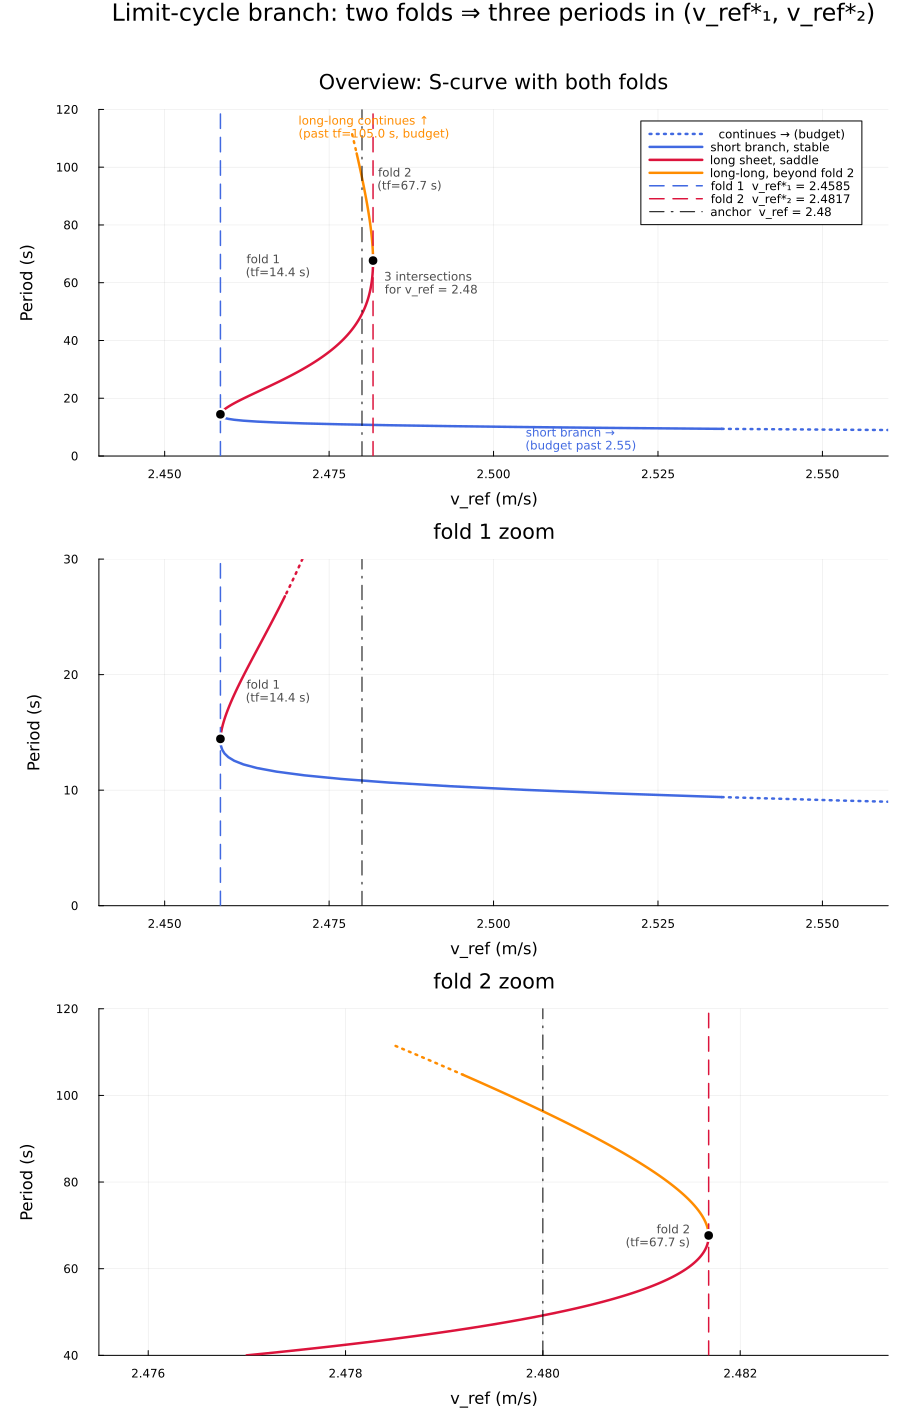
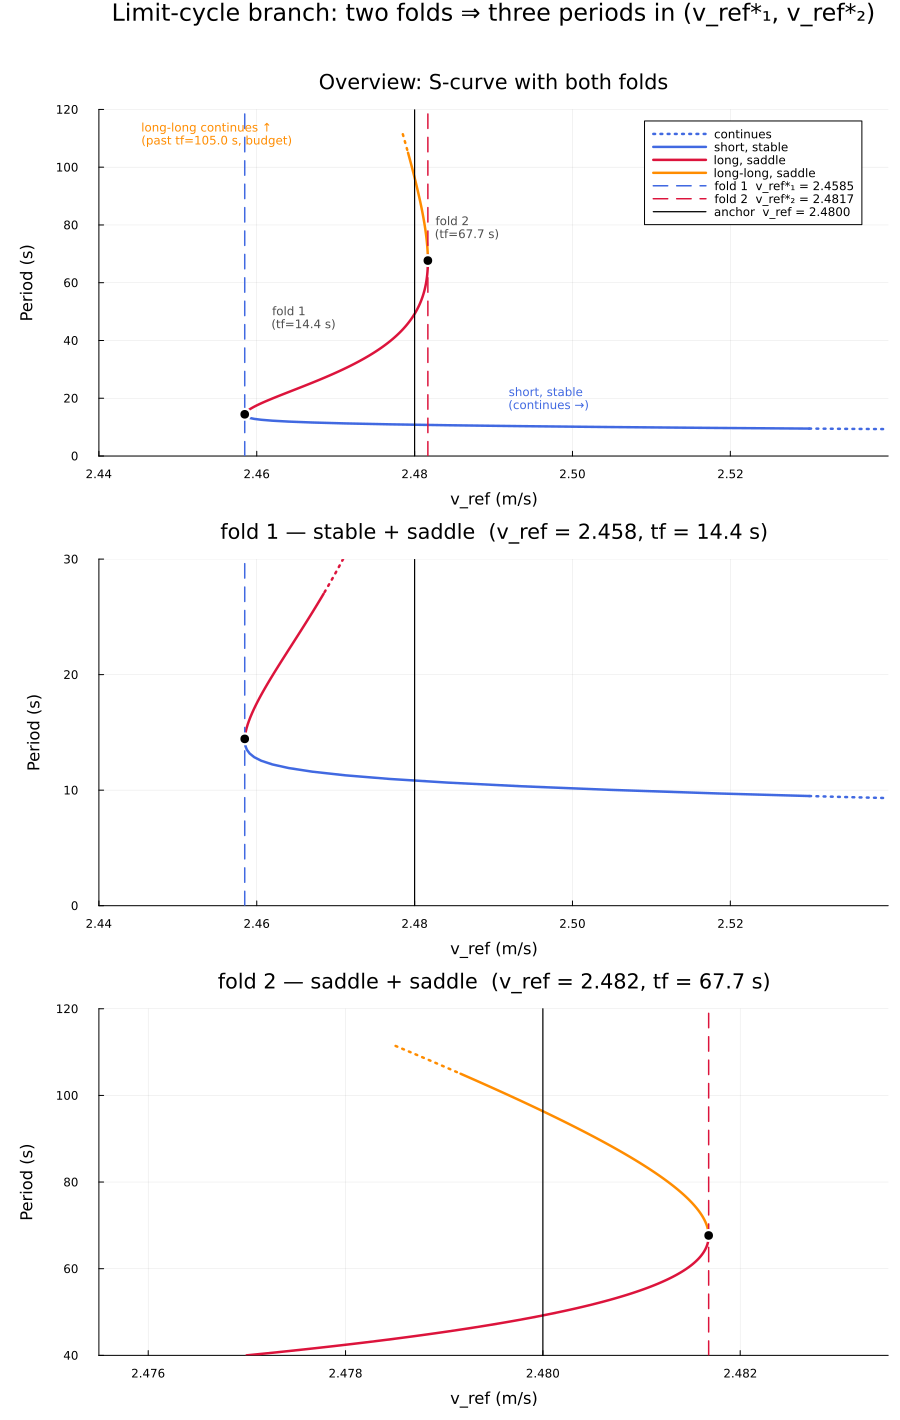
sprint2026: exact dot boundaries by interpolation, consistent branch terminology, fold titles

diff --git a/applications/sprint2026/REPORT.md b/applications/sprint2026/REPORT.md
@@ -58,12 +58,12 @@ optimized cycle continues as the family below (`tf` = physical period):
 
 ![Branch topology](fig_branch.png)
 
-* **Main sheet** (top panel): `tf` falls monotonically from 0.628 s at 9 m/s to
+* **Main branch** (top panel): `tf` falls monotonically from 0.628 s at 9 m/s to
   ≈ 0.12 s at 20 m/s. Collocation, multiple shooting and the bothside runs all
   coincide on it.
 * **Fold tangle at v_ref ≈ 9.2–9.8 m/s** (shaded): several periodic-orbit
-  sheets crowd together (detected folds at 9.24, 9.30, 9.46, 9.54, 9.84 m/s).
-  Near it, Newton's corrector can land on a different sheet than the predictor —
+  branches crowd together (detected folds at 9.24, 9.30, 9.46, 9.54, 9.84 m/s).
+  Near it, Newton's corrector can land on a different branch than the predictor —
   the red ✕ markers flag recorded steps with |Δp| > 1.5·dsmax, impossible for a
   true PALC step and therefore the signature of a sheet-jump.
 * **Low-wind fold** (bottom): the period grows steeply as the wind decreases
@@ -73,9 +73,9 @@ optimized cycle continues as the family below (`tf` = physical period):
 
 ## 3. Collocation and multiple shooting agree
 
-Both discretizations trace the same sheets. On sheet-matched, smooth segments
-the relative period difference is **≤ 3.0e-5 on the main sheet** and **≤ 8.6e-4
-on the low-wind sheet** (where tf is large and sensitive).
+Both discretizations trace the same branches. On branch-matched, smooth segments
+the relative period difference is **≤ 3.0e-5 on the main branch** and **≤ 8.6e-4
+on the low-wind branch** (where tf is large and sensitive).
 
 ![MS vs collocation](fig_ms_vs_coll.png)
 
@@ -106,7 +106,7 @@ smaller") had two independent, non-physical causes, both fixed in
 3. **Explicit record** of the physical period (above).
 4. **Two explicit single-direction continuations** (`ds = ±0.01`) instead of
    `bothside=true`, each with its own budget, plus a `sheet_jumps()` sanity
-   check (|Δp| > 1.5·dsmax ⇒ Newton left the sheet near the fold tangle).
+   check (|Δp| > 1.5·dsmax ⇒ Newton left the branch near the fold tangle).
 5. Warm start: damped-Armijo pre-solve Newton (BK's plain `Newton` overshoots),
    multiple shooting warm-started from the converged collocation orbit.
    Integrator: **Tsit5** with abstol = reltol = 1e-10 (an order of magnitude
@@ -161,9 +161,9 @@ distinct discoveries, each forced by an observed symptom:
    Single-direction runs behave perfectly; the merged result does not.
 
 4. **Sheet jumps near v_ref ≈ 9.2–9.8.** Recorded steps with |Δp| > dsmax
-   (impossible for PALC) revealed Newton corrections landing on adjacent sheets
-   in the fold tangle, then riding the wrong sheet to the budget. Fresh-mesh
-   runs jump; runs with mesh history reached the low-wind sheet — the tangle
+   (impossible for PALC) revealed Newton corrections landing on adjacent branches
+   in the fold tangle, then riding the wrong branch to the budget. Fresh-mesh
+   runs jump; runs with mesh history reached the low-wind branch — the tangle
    makes the corrector basin history-dependent. This motivated the explicit
    `sheet_jumps()` check and replacing `bothside=true` with two explicit runs.
 
@@ -189,7 +189,7 @@ methodological, not setup noise.
 `scratch/_arcs_sweep_one_tmp.jl` (fresh collocation warm start per M, one
 bothside continuation, loose tol `1e-6`, `max_steps=400`):
 
-| M | passes fold | long-leg tfmax | steps | wall | peak RSS* |
+| M | passes fold | long-branch tfmax | steps | wall | peak RSS* |
 |---|---|---|---|---|---|
 | 5 | no (p_min=2.876) | 6.3 | 621 | 16.8 s | — |
 | 10 | yes | 39.7 | 802 (budget) | 28.7 s | — |
@@ -209,12 +209,12 @@ per step); the extra arcs buy conditioning, not reach, here.
 
 From `scratch/brS_shoot.jls` (`i0 = argmin p`, `p_f = 2.458474`, `tf_f = 14.296`):
 
-- `p` has an *interior* minimum — strictly decreasing on the long leg, strictly
-  increasing on the short leg. A homoclinic/SNIC would instead have
+- `p` has an *interior* minimum — strictly decreasing on the long-branch, strictly
+  increasing on the short-branch. A homoclinic/SNIC would instead have
   `tf → ∞` with `p` monotone and no turn.
-- Local log–log exponent `(p − p_min) ∝ |tf − tf_f|^α`: **α = 2.10** (long leg),
-  **α = 2.03** (short leg) — quadratic tangency.
-- Tightest window (long leg, tf∈[14,15], 5 pts): fold law `p = p_f + γ(tf−tf_f)²`
+- Local log–log exponent `(p − p_min) ∝ |tf − tf_f|^α`: **α = 2.10** (long-branch),
+  **α = 2.03** (short-branch) — quadratic tangency.
+- Tightest window (long-branch, tf∈[14,15], 5 pts): fold law `p = p_f + γ(tf−tf_f)²`
   gives RMS **4.6e-7 m/s**; the homoclinic log-law **9.6e-5** (200× worse).
 
 So "no prograde cycles below `v_ref*`" is correct **for this branch**.
@@ -232,12 +232,12 @@ discretization artifact:
 Both turns are saddle–nodes of the branch (a nontrivial Floquet multiplier passes
 through `+1`, quadratic tangency above). What differs is the *global* stability of
 the merging pair: at fold 1 the stable short cycle meets the unstable long cycle,
-while at fold 2 the long and long-long sheets — **both unstable** — merge, so the
+while at fold 2 the long and long-long branches — **both unstable** — merge, so the
 second fold annihilates two saddles and leaves only the stable short cycle for
 `v_ref > 2.48168`. Counts in §3.5.
 
-The branch is therefore an **S-curve**: short leg (tf 0.07→14.44), long sheet
-(14.44→67.67, `p` rising), and a **long-long sheet** (67.67→111+, `p` falling,
+The branch is therefore an **S-curve**: short-branch (tf 0.07→14.44), long branch
+(14.44→67.67, `p` rising), and a **long-long branch** (67.67→111+, `p` falling,
 still budget-truncated at `tf≈111.4`). A horizontal cut meets the *computed*
 branch **three times** for `v_ref ∈ (2.4785, 2.48168)` — i.e. three coexisting
 prograde periods; below that the third (long-long) crossing lies beyond the
@@ -288,7 +288,7 @@ Data: `scratch/bvp_cycles_poincare.jls`; branch column from
 - **The sampler is attractor-only.** Its callback terminates when successive
   section crossings agree, so it only sees *attracting* cycles. It therefore
   finds the stable short branch and **misses** the long / long-long saddle
-  sheets. Enumerating those needs deflation (§3.4).
+  branches. Enumerating those needs deflation (§3.4).
 - **Three periods coexist** for `v_ref ∈ (2.4785, 2.48168)` (the computed part of
   the two folds of §3.2; below `2.4785` the long-long crossing is budget-truncated).
   A cut at `v_ref = 2.480` meets the S-curve three times — short `10.83 s`, long
@@ -299,7 +299,7 @@ Data: `scratch/bvp_cycles_poincare.jls`; branch column from
 
 ### 3.4 Deflation: recovering the non-attracting cycles
 
-The Poincaré sampler is attractor-only, so the saddle sheets are invisible to it.
+The Poincaré sampler is attractor-only, so the saddle branches are invisible to it.
 Deflation (Farrell–Birkisson–Funke, `BifurcationKit.DeflationOperator`, penalising
 `‖u−u_i‖^{-2p}+α`) is what reaches them. `scratch/_deflate_cycles.jl`
 (M=20, physical/SI BVP) at the two anchors:
@@ -313,7 +313,7 @@ Deflation (Farrell–Birkisson–Funke, `BifurcationKit.DeflationOperator`, pena
 - **Deflation demonstration (v_ref = 2.47):** with the *short* cycle deflated, a
   deflated Newton started from the long state converges back to the **long
   saddle** (`tf = 28.8205 s`) — i.e. deflation does reach the non-attracting
-  sheet, which the sampler cannot. The archived short/long periods are
+  branch, which the sampler cannot. The archived short/long periods are
   reproduced exactly (`11.3658` / `28.8205`), and the freshly regenerated short
   from the sampler agrees (`tf = 11.36575`), so the archived orbits are not stale.
 - **No extra cycle found.** Searching beyond the seeds (perturbed states) is not
@@ -341,16 +341,16 @@ from the M=40 full-tol branch (`tf` interpolated at fixed `v_ref`):
 
 The three merge at the second fold (`tf = 67.67 s`) and cycle 1's value
 `10.833 s` matches the independent deflation/sampler result `10.8232 s`. The
-long-long sheet is **budget-truncated** at `tf ≈ 111.4 s` (it is still
+long-long branch is **budget-truncated** at `tf ≈ 111.4 s` (it is still
 descending in `v_ref`), not closed by a fold, so a third fold or a homoclinic
 terminus beyond `tf = 111` is unresolved.
 
 **Floquet stability of the three cycles** (`scratch/_floquet_index.jl`): the
 tangent map is assembled from per-arc flow Jacobians and QR-reorthonormalised
 over 25 periods, so the trivial direction converges to ≈0 and the strongly
-unstable sheets do not overflow:
+unstable branches do not overflow:
 
-| sheet | `tf` (s) | Floquet exponents (per period, M=40) | # stable dirs | # unstable dirs |
+| branch | `tf` (s) | Floquet exponents (per period, M=40) | # stable dirs | # unstable dirs |
 |---|---|---|---|---|
 | short | 10.82 | `+0.09*`, −1.48, −7.99, −35.70 | **3** | 0 |
 | long | 49.22 | **+78.84**, `−0.07*`, −2.01, −183.91 | **2** | 1 |
@@ -358,7 +358,7 @@ unstable sheets do not overflow:
 
 `*` marks the trivial (≈0) direction. Counts are discretization-independent:
 the 2.47 pair at M=20 and M=40 agree (short: 3 stable; long: 2 stable / 1
-unstable). So the short cycle is attracting, while the long and long-long sheets
+unstable). So the short cycle is attracting, while the long and long-long branches
 each carry **one strongly unstable direction** — both are saddles, which is why
 fold 2 annihilates an unstable pair. Caveat: a fold requires the merging pair to
 differ in index by one, but this finite-time spectrum does not cleanly separate
@@ -387,7 +387,7 @@ only an orbit that closes (cycle residual < `1e-7`). Rerun at M=40:
 | short | 11.36577 | 0.2943 |
 | long | 28.82052 | 3.47e16 |
 
-both closing to ~`1e-14` and matching the archived pair (Finding 9's long-sheet
+both closing to ~`1e-14` and matching the archived pair (Finding 9's long-branch
 `|μ| ≈ 3.5e16`). So the documented pair is confirmed at M=40, and
 `two_cycles_shooting_M40.jls` / `two_cycles_M40_validated.jls` now hold it; the
 figures keep using `two_cycles_shooting.jls` (identical values).
@@ -403,11 +403,11 @@ figures keep using `two_cycles_shooting.jls` (identical values).
   window) yields a stable alternative.
 - **Full deflation enumeration.** The perturbation search was abandoned because
   divergent shooting guesses stall the integrator. A complete sweep should seed
-  from *continuation-derived* states on every sheet (short, long, long-long at
+  from *continuation-derived* states on every branch (short, long, long-long at
   2.48) and deflate them jointly, then probe with continuation-adjacent guesses —
   bounded per attempt (a cooperative cancellation hook, or a per-attempt thread
   kill).
-- **Third fold / homoclinic.** The long-long sheet is budget-truncated at
+- **Third fold / homoclinic.** The long-long branch is budget-truncated at
   `tf ≈ 111 s` and still descending in `v_ref`; a longer continuation would show
   whether it folds a third time (a fourth coexisting period) or runs to a
   homoclinic terminus.
